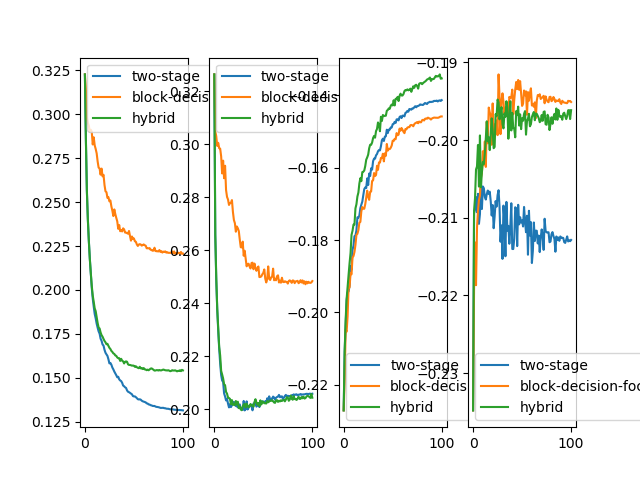
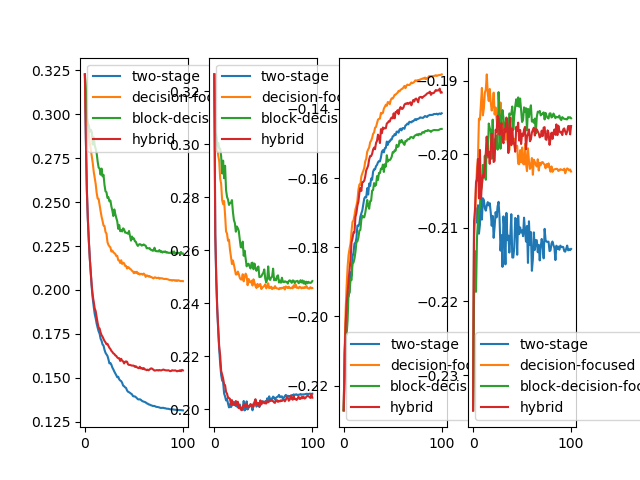
1102 adding optimizing time

diff --git a/blockQP.py b/blockQP.py
@@ -43,11 +43,13 @@ def learnEdgeProbs_simple(train_data, validate_data, test_data, lr=0.1, learning
     
     print ("Training...")
     training_time = 0
+    optimizing_time = 0
 
     pretrain_epochs = 0
     decay_rate = 0.95
     for epoch in range(-1, n_epochs):
         epoch_training_time = 0
+        epoch_optimizing_time = 0
         if epoch <= pretrain_epochs:
             ts_weight = 1
         else:
@@ -110,12 +112,13 @@ def learnEdgeProbs_simple(train_data, validate_data, test_data, lr=0.1, learning
                     cut_size = m
                     def_obj, def_coverage, simulated_def_obj = getDefUtility(single_data, unbiased_probs_pred, learning_model, cut_size=cut_size, omega=omega, verbose=False, training_mode=False, training_method=training_method) # feed forward only
                 else:
+                    time2 = time.time() # including the time of computing defender utility
                     if training_method == "two-stage" or epoch <= pretrain_epochs:
                         cut_size = m
                         def_obj, def_coverage, simulated_def_obj = getDefUtility(single_data, unbiased_probs_pred, learning_model, cut_size=cut_size, omega=omega, verbose=False, training_mode=False, training_method=training_method) # most time-consuming part
                         # ignore the time of computing defender utility
+                        epoch_optimizing_time += time.time() - time2
                     else:
-                        time2 = time.time() # including the time of computing defender utility
                         if training_method == 'decision-focused':
                             cut_size = m
                         elif training_method == 'block-decision-focused' or training_method == 'hybrid' or training_method == 'corrected-block-decision-focused':
@@ -158,10 +161,10 @@ def learnEdgeProbs_simple(train_data, validate_data, test_data, lr=0.1, learning
                         # print('cosine similarity:', cos(dopt_dphi.reshape(-1), estimated_dopt_dphi.reshape(-1)))
                         # ==========================================================
 
-                U = torch.Tensor(G.graph['U'])
-                initial_distribution = torch.Tensor(G.graph['initial_distribution'])
-                new_def_obj  = -(objective_function_matrix_form(def_coverage, G, unbiased_probs_true, torch.Tensor(U), torch.Tensor(initial_distribution), None, omega=omega))
-                def_obj_list.append(new_def_obj.item())
+                # U = torch.Tensor(G.graph['U'])
+                # initial_distribution = torch.Tensor(G.graph['initial_distribution'])
+                # new_def_obj  = -(objective_function_matrix_form(def_coverage, G, unbiased_probs_true, torch.Tensor(U), torch.Tensor(initial_distribution), None, omega=omega))
+                def_obj_list.append(def_obj.item())
                 simulated_def_obj_list.append(simulated_def_obj)
 
                 loss_list.append(loss.item())
@@ -217,7 +220,9 @@ def learnEdgeProbs_simple(train_data, validate_data, test_data, lr=0.1, learning
                   mode, epoch, np.mean(loss_list), np.mean(def_obj_list), np.mean(simulated_def_obj_list)))
 
         print('Training time for this epoch: {}'.format(epoch_training_time))
-        training_time += epoch_training_time
+        print('Optimizing time for this epoch: {}'.format(epoch_optimizing_time))
+        training_time   += epoch_training_time
+        optimizing_time += epoch_optimizing_time
         
 
     average_nodes = np.mean([x[0].number_of_nodes() for x in train_data] + [x[0].number_of_nodes() for x in validate_data] + [x[0].number_of_nodes() for x in test_data])
@@ -235,7 +240,7 @@ def learnEdgeProbs_simple(train_data, validate_data, test_data, lr=0.1, learning
 
     print('Total training time: {}'.format(training_time))
             
-    return net2, training_loss_list, validating_loss_list, testing_loss_list, training_defender_utility_list, validating_defender_utility_list, testing_defender_utility_list, training_time
+    return net2, training_loss_list, validating_loss_list, testing_loss_list, training_defender_utility_list, validating_defender_utility_list, testing_defender_utility_list, training_time, optimizing_time
     
 
 def getDefUtility(single_data, unbiased_probs_pred, path_model, cut_size, omega=4, verbose=False, initial_coverage_prob=None, training_mode=True, training_method='two-stage'):
@@ -507,7 +512,7 @@ if __name__=='__main__':
 
     ############################## Training the ML models:    
     # Learn the neural networks:
-    net2, training_loss, validating_loss, testing_loss, training_defu, validating_defu, testing_defu, training_time = learnEdgeProbs_simple(
+    net2, training_loss, validating_loss, testing_loss, training_defu, validating_defu, testing_defu, training_time, optimizing_time = learnEdgeProbs_simple(
                                 train_data, validate_data, test_data,
                                 learning_model=learning_model_type,
                                 lr=LR, n_epochs=N_EPOCHS,batch_size=BATCH_SIZE, 
@@ -518,7 +523,7 @@ if __name__=='__main__':
 
     f_save.write('Random seed, {}\n'.format(SEED))
     f_save.write("mode, epoch, average loss, defender utility, simulated defender utility\n")
-    f_time.write('Random seed, {}, training time, {}\n'.format(SEED, training_time))
+    f_time.write('Random seed, {}, training time, {}, optimization time, {}\n'.format(SEED, training_time, optimizing_time))
     for epoch in range(-1, N_EPOCHS):
         f_save.write("{}, {}, {}, {}, {}\n".format('training',   epoch, training_loss[epoch+1],   training_defu[epoch+1], 0))
         f_save.write("{}, {}, {}, {}, {}\n".format('validating', epoch, validating_loss[epoch+1], validating_defu[epoch+1], 0))

diff --git a/exp1.py b/exp1.py
@@ -4,12 +4,13 @@ import matplotlib.pyplot as plt
 import argparse
 from generate_bar import read_file, generateBarChart
 from generate_fig4 import return_yaxis, generateLineChart
+from generate_time import load_time
 
 if __name__=='__main__':
 
     # labels = ['two-stage', 'block-decision-focused']
-    labels = ['two-stage', 'block-decision-focused', 'hybrid']
-    # labels = ['two-stage', 'block-decision-focused', 'corrected-block-decision-focused', 'hybrid']
+    labels = ['two-stage', 'decision-focused', 'block-decision-focused', 'hybrid']
+    # labels = ['two-stage', 'block-decision-focused', 'hybrid']
     print(labels)
     # ==================== Parser setting ==========================
     parser = argparse.ArgumentParser(description='GCN Interdiction')
@@ -33,7 +34,7 @@ if __name__=='__main__':
     filename = args.filename
 
     # ============================== generate bar chart =====================================
-    bar_list = np.zeros((2, len(labels)))
+    bar_list = np.zeros((4, len(labels)))
     for i, label in enumerate(labels):
         filepath = "results/random/exp1/{}_{}_n{}_p{}_b{}_cut{}_noise{}.csv".format(filename, label, GRAPH_N_LOW, GRAPH_E_PROB_LOW, DEFENDER_BUDGET, CUT_SIZE, NOISE_LEVEL)
         key_list = None
@@ -43,22 +44,28 @@ if __name__=='__main__':
             loss_list, defu_list, opt_loss_list, opt_defu_list, init_loss_list, init_defu_list = read_file(filepath, 'decision-focused', key_list)
 
         print('Opt mean:', np.mean(opt_loss_list), np.mean(opt_defu_list))
-        loss_median = np.median(loss_list - opt_loss_list)
-        defu_median = np.median(opt_defu_list - defu_list)
+        loss_median = np.median(-loss_list + opt_loss_list)
+        defu_median = np.median(-defu_list + opt_defu_list)
 
-        loss_mean   = np.mean(loss_list - opt_loss_list)
-        defu_mean   = np.mean(opt_defu_list - defu_list)
+        loss_mean   = np.mean(-loss_list   + opt_loss_list)
+        defu_mean   = np.mean(-defu_list   + opt_defu_list)
 
         bar_list[0,i] = defu_mean
         bar_list[1,i] = defu_median
 
-    init_defu_median = np.median(opt_defu_list - init_defu_list)
-    init_defu_mean   = np.mean(opt_defu_list - init_defu_list)
+        time_filepath = "results/time/random/exp1/{}_{}_n{}_p{}_b{}_cut{}_noise{}.csv".format(filename, label, GRAPH_N_LOW, GRAPH_E_PROB_LOW, DEFENDER_BUDGET, CUT_SIZE, NOISE_LEVEL)
+        training_time, optimizing_time = load_time(time_filepath)
+        bar_list[2,i] = training_time
+        bar_list[3,i] = optimizing_time
+
+    init_defu_median = np.median(-init_defu_list + opt_defu_list)
+    init_defu_mean   = np.mean(  -init_defu_list + opt_defu_list)
     # bar_list[0,-1] = init_defu_mean
     # bar_list[1,-1] = init_defu_median
 
-    print('mean (ts, bdf, cbdf, hb, init):',   ','.join([str(x) for x in bar_list[0]]) + ',' + str(init_defu_mean))
-    print('median (ts, bdf, cbdf, hb, init):', ','.join([str(x) for x in bar_list[1]]) + ',' + str(init_defu_median))
+    print('mean (ts, df, bdf, hb, init):',   ','.join([str(x) for x in bar_list[0]]) + ',' + str(init_defu_mean))
+    print('training time (ts, df, bdf, hb):', ','.join([str(x) for x in bar_list[2]]))
+    print('optimizing time (ts, df, bdf, hb):', ','.join([str(x) for x in bar_list[3]]))
 
     save_filename = "results/excel/comparison/exp1/barchart_{}_n{}_p{}_b{}_noise{}.png".format(filename, GRAPH_N_LOW, GRAPH_E_PROB_LOW, DEFENDER_BUDGET, NOISE_LEVEL)
     generateBarChart(bar_list, labels, save_filename)

diff --git a/exp2.py b/exp2.py
@@ -5,6 +5,7 @@ import argparse
 
 from generate_bar import read_file, generateBarChart
 from generate_fig4 import return_yaxis, generateLineChart
+from generate_time import load_time
 
 if __name__ == '__main__':
     
@@ -33,6 +34,7 @@ if __name__ == '__main__':
     method_list = ['block-decision-focused', 'hybrid']
     key_list = None # list(set(range(1,31)) - set([21, 25]))
     for method in method_list:
+        testing_defu = np.zeros((len(cut_size_list), 101))
         bar_list = np.zeros((2, len(cut_size_list)))
         for i, cut_size in enumerate(cut_size_list):
             filepath = "results/random/exp2/{}_{}_n{}_p{}_b{}_cut{}_noise{}.csv".format(filename, method, GRAPH_N_LOW, GRAPH_E_PROB_LOW, DEFENDER_BUDGET, cut_size, NOISE_LEVEL)
@@ -51,9 +53,17 @@ if __name__ == '__main__':
 
         tr_loss, te_loss = [[]] * len(labels), [[]] * len(labels)
         tr_defu, te_defu = [[]] * len(labels), [[]] * len(labels)
+        training_time_list = np.zeros(len(cut_size_list))
+        optimizing_time_list = np.zeros(len(cut_size_list))
         for i, cut_size in enumerate(cut_size_list):
             filepath = "results/random/exp2/{}_{}_n{}_p{}_b{}_cut{}_noise{}.csv".format(filename, method, GRAPH_N_LOW, GRAPH_E_PROB_LOW, DEFENDER_BUDGET, cut_size, NOISE_LEVEL)
             tr_loss[i], te_loss[i], tr_defu[i], te_defu[i], x1 = return_yaxis(filepath)
+            testing_defu[i] = te_defu[i]
+
+            time_filepath = "results/time/random/exp2/{}_{}_n{}_p{}_b{}_cut{}_noise{}.csv".format(filename, method, GRAPH_N_LOW, GRAPH_E_PROB_LOW, DEFENDER_BUDGET, cut_size, NOISE_LEVEL)
+            training_time, optimizing_time = load_time(time_filepath)
+            training_time_list[i] = training_time
+            optimizing_time_list[i] = optimizing_time
 
         xy_list = []
         xy_list.append((x1, np.array(tr_loss), labels, "Training Loss", 'KL Divergence'))
@@ -65,7 +75,9 @@ if __name__ == '__main__':
         init_defu_mean   = np.mean(opt_defu_list - init_defu_list)
     
         print('mean  :', ','.join([str(x) for x in bar_list[0]]) + ',' + str(init_defu_mean))
-        print('median:', ','.join([str(x) for x in bar_list[1]]) + ',' + str(init_defu_median))
+        print('training time:', training_time_list)
+        print('optimizing time:', optimizing_time_list)
+        np.savetxt('experiments/exp2_{}.csv'.format(method), testing_defu, delimiter=',')
     
         barchart_save_filename = "results/excel/comparison/exp2/barchart_{}_{}_n{}_p{}_b{}_noise{}.png".format(filename, method, GRAPH_N_LOW, GRAPH_E_PROB_LOW, DEFENDER_BUDGET, NOISE_LEVEL)
         linechart_save_filename = "results/excel/comparison/exp2/linechart_{}_{}_n{}_p{}_b{}_noise{}.png".format(filename, method, GRAPH_N_LOW, GRAPH_E_PROB_LOW, DEFENDER_BUDGET, NOISE_LEVEL)

diff --git a/generate_time.py b/generate_time.py
@@ -1,0 +1,25 @@
+import pandas as pd
+import numpy as np
+import matplotlib.pyplot as plt
+import argparse
+
+def load_time(filename):
+    f = open(filename, 'r')
+    running_time_list = []
+    optimizing_time_list = []
+    key_list = []
+    while True:
+        item = f.readline()
+        if not item: break
+        item = item[:-1].split(',')
+        running_time_list.append(float(item[3]))
+        if len(item) > 5:
+            optimizing_time_list.append(float(item[5]))
+        key_list.append(int(item[1]))
+
+    print('running time filename', filename)
+    print(key_list)
+
+    running_time_average = np.mean(running_time_list)
+    optimizing_time_list = np.mean(optimizing_time_list) if len(optimizing_time_list) > 0 else 0
+    return running_time_average, optimizing_time_list

diff --git a/generate_bar.py b/generate_bar.py
@@ -76,7 +76,7 @@ def read_file(filename, method, key_list=None):
         opt_defu_list.append(tmp_opt_defu)
 
     print(method, len(data.keys()))
-    print(key_list)
+    print(list(key_list))
 
     final_loss_list = np.array(final_loss_list)
     final_defu_list = np.array(final_defu_list)
